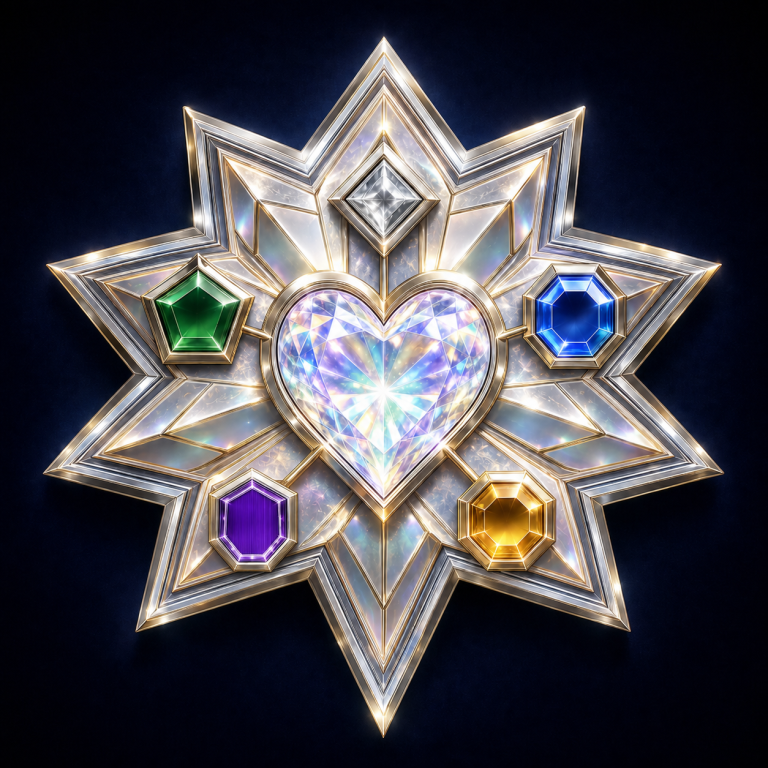
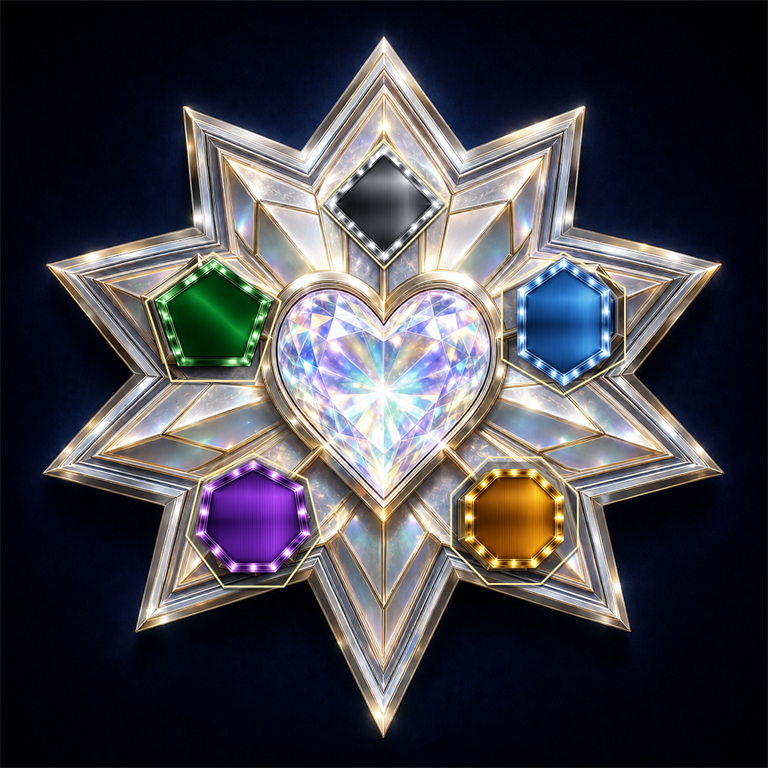
Finalize master badge and badge version selection

diff --git a/public/badges/collection/README.md b/public/badges/collection/README.md
@@ -4,13 +4,14 @@ De 76 badgeposities zijn al aan vaste bestandsnamen gekoppeld. Zolang een bestan
 
 ## Nieuwe versies aanleveren
 
-Zet bij een bijgewerkte badge `_2`, `_3`, enzovoort direct achter het volgnummer. De import kiest per badge altijd het hoogste versienummer. Een bestand zonder achtervoegsel geldt als versie 1.
+Zet bij een bijgewerkte badge `_2`, `_3`, enzovoort achter het volgnummer óf achter de volledige badgenaam. De import kiest per badge altijd het hoogste versienummer, ongeacht de wijzigingsdatum. Een bestand zonder numeriek achtervoegsel geldt als versie 1.
 
 Voorbeelden:
 
 - `adventure common-1.png` — versie 1
 - `adventure common-1_2.png` — versie 2 en vervangt versie 1
 - `adventure common-1_3.png` — versie 3 en vervangt alle eerdere versies
+- `adventure common-1.png — World Premiere Entrance_4.png` — versie 4 en wordt eveneens correct herkend
 
 De lange omschrijving na de eerste `.png` mag blijven staan. Voer `powershell -ExecutionPolicy Bypass -File scripts/import-badges.ps1` uit om steeds de nieuwste bestanden te selecteren, optimaliseren en onder hun vaste app-naam te plaatsen.
 